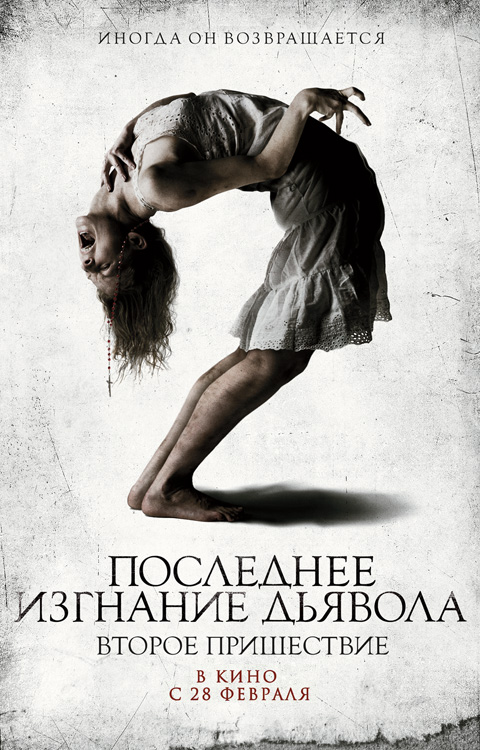
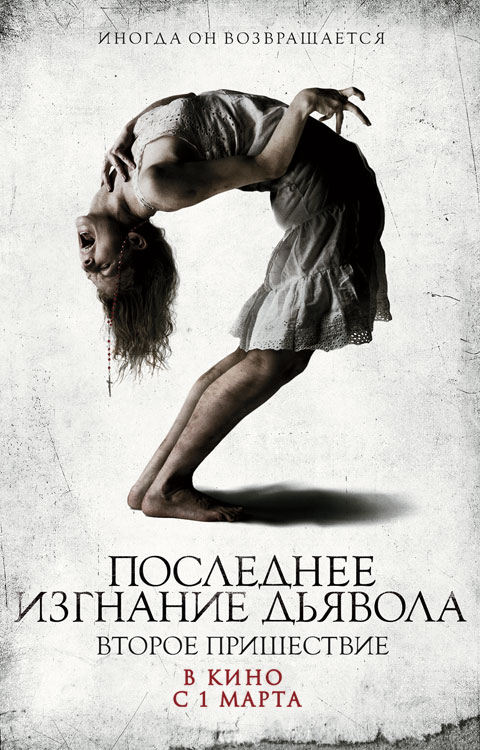
28 feb > 1 march

Changed region(s): [[0.3438, 0.8893, 0.6562, 0.9507]]

diff --git a/css/main.css b/css/main.css
@@ -29,7 +29,7 @@ a:hover {color: #9c683a;}
 
 .wrap {width: 880px; margin: 0 auto; text-align: center; font-size: 80%;}
 
-.top {width: 800px; height: 300px; margin: 0 auto; background: url('/images/top.png') center top no-repeat;}
+.top {width: 800px; height: 300px; margin: 0 auto; background: url('/images/top_text.png') center top no-repeat;}
 
 .content {width: 870px; margin: 0 auto; padding: 20px 0 20px 0; text-align: center;}
 .content .left {float: left; width: 420px; height: 500px; padding-right: 10px; background: url('/images/right_bg.png') center center no-repeat;}

diff --git a/index.php b/index.php
@@ -1,10 +1,10 @@
 <!DOCTYPE html PUBLIC "-//W3C//DTD XHTML 1.0 Transitional//EN" "http://www.w3.org/TR/xhtml1/DTD/xhtml1-transitional.dtd">
 <html xmlns="http://www.w3.org/1999/xhtml">
-<head><title>Последнее изгнание дьявола: Второе пришествие — В кино с 28 февраля</title>
+<head><title>Последнее изгнание дьявола: Второе пришествие — В кино с 1 марта</title>
 
 <meta http-equiv="Content-Type" content="text/html; charset=utf-8">
 <meta http-equiv="X-UA-Compatible" content="IE=edge">
-<meta name="description" content="Последнее изгнание дьявола: Второе пришествие. Официальный сайт фильма. В кино с 28 февраля.">
+<meta name="description" content="Последнее изгнание дьявола: Второе пришествие. Официальный сайт фильма. В кино с 1 марта.">
 <meta name="keywords" content="Последнее изгнание дьявола, Второе пришествие, The Last Exorcism Part II, ужасы, триллер, фильм, Эд Гасс-Доннели, Спенсер Трит Кларк, Эшли Белл, Эндрю Сенсениг, Джудд Лорманд, Джулия Гарнер">
 
 <meta property="og:title" content="Последнее изгнание дьявола: Второе пришествие - официальный сайт фильма">
@@ -60,7 +60,7 @@
 		<div class="right">
 			<p><b>Нелл находят в лесу</b> — грязную и напуганную, только что сбежавшую со страшного ритуала. Вся её семья погибла, и девушку отправляют в Новый Орлеан — приют для девочек. Там она попадает под присмотр терапевта Фрэнка Мерле. Жизнь вроде бы налаживается, Нелл влюбляется в местного мальчика, но в самый неподходящий момент демон вновь объявляется и вселяется в Нелл. Теперь он хочет от неё чего-то большего...</p>
 			<p style="color: #9d1e00;">Первый фильм вышел в прокат в 2010 году.</p>
-			<p style="color: #9d1e00;"><b>Второе пришествие Зла на российские экраны состоится 28 февраля 2013 года.</b></p>
+			<p style="color: #9d1e00;"><b>Второе пришествие Зла на российские экраны состоится 1 марта 2013 года.</b></p>
 			<p>&nbsp;</p>
 			<p><b>Режиссёр:</b> Эд Гасс-Доннели</p>
 			<p><b>Сценарий:</b> Дэмьен Шазелл, Эд Гасс-Доннели</p>

diff --git a/puzzle/indexOK.php b/puzzle/indexOK.php
@@ -1,7 +1,7 @@
 <!DOCTYPE HTML PUBLIC "-//W3C//DTD HTML 4.01//EN" "http://www.w3.org/TR/html4/strict.dtd">
 <html>
 <head>
-<title>Последнее изгнание дьявола: Второе пришествие — В кино с 28 февраля</title>
+<title>Последнее изгнание дьявола: Второе пришествие — В кино с 1 марта</title>
 <meta http-equiv="Content-Type" content="text/html; charset=utf-8">
 <meta name="apple-mobile-web-app-title" content="Изыди!">
 

diff --git a/puzzle/indexIE.php b/puzzle/indexIE.php
@@ -1,7 +1,7 @@
 <!DOCTYPE HTML PUBLIC "-//W3C//DTD HTML 4.01//EN" "http://www.w3.org/TR/html4/strict.dtd">
 <html>
 <head>
-<title>Последнее изгнание дьявола: Второе пришествие — В кино с 28 февраля</title>
+<title>Последнее изгнание дьявола: Второе пришествие — В кино с 1 марта</title>
 <meta http-equiv="Content-Type" content="text/html; charset=utf-8">
 <meta http-equiv="X-UA-Compatible" content="IE=edge">
 
